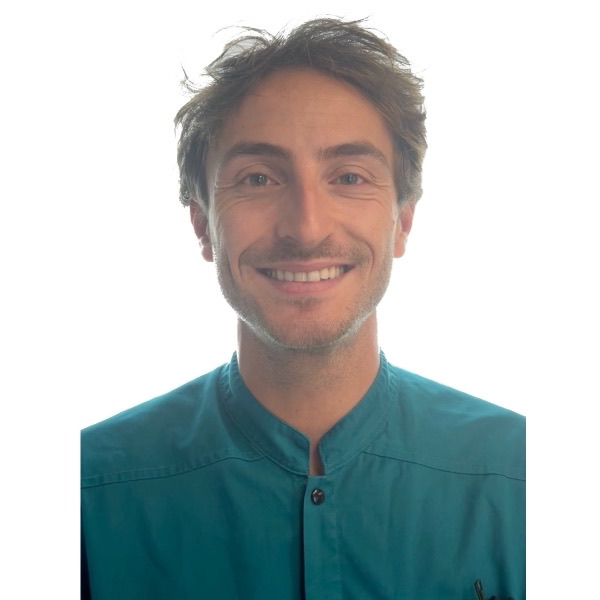
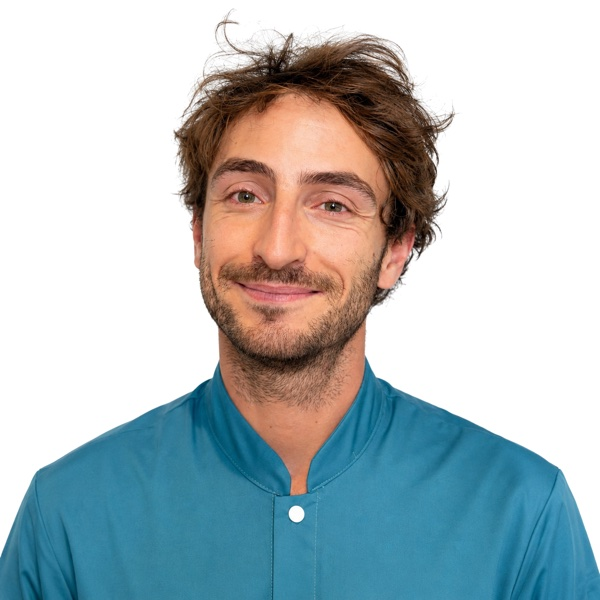
Mise à jour du site

diff --git a/equipe.html b/equipe.html
@@ -46,6 +46,7 @@
                 document.getElementById("closureTitle").textContent = f.titre;
                 document.getElementById("closureText").innerHTML = f.message;
                 document.getElementById("closureOverlay").style.display = "flex";
+                sessionStorage.setItem("closureSeen", "1");
                 break;
             }
         }
@@ -114,7 +115,7 @@
                     </ul>
                 </div>
                 <div class="team-card">
-                    <div class="team-photo"><img src="img/dr-simon.jpg" alt="Dr Simon Prévé"></div>
+                    <div class="team-photo"><img src="img/dr-simon.jpg?v=2" alt="Dr Simon Prévé"></div>
                     <h3 class="team-name">Dr Simon Prévé</h3>
                     <div class="team-role">Spécialiste qualifié en orthodontie</div>
                     <p class="team-desc">Spécialiste qualifié avec formation européenne de haut niveau, actif dans la recherche scientifique et membre de sociétés d'orthodontie internationales.</p>

diff --git a/contact.html b/contact.html
@@ -288,6 +288,7 @@
                 document.getElementById("closureTitle").textContent = f.titre;
                 document.getElementById("closureText").innerHTML = f.message;
                 document.getElementById("closureOverlay").style.display = "flex";
+                sessionStorage.setItem("closureSeen", "1");
                 break;
             }
         }

diff --git a/ressources.html b/ressources.html
@@ -225,6 +225,7 @@
                 document.getElementById("closureTitle").textContent = f.titre;
                 document.getElementById("closureText").innerHTML = f.message;
                 document.getElementById("closureOverlay").style.display = "flex";
+                sessionStorage.setItem("closureSeen", "1");
                 break;
             }
         }

diff --git a/accessibilite.html b/accessibilite.html
@@ -73,6 +73,7 @@
                 document.getElementById("closureTitle").textContent = f.titre;
                 document.getElementById("closureText").innerHTML = f.message;
                 document.getElementById("closureOverlay").style.display = "flex";
+                sessionStorage.setItem("closureSeen", "1");
                 break;
             }
         }

diff --git a/cabinet.html b/cabinet.html
@@ -46,6 +46,7 @@
                 document.getElementById("closureTitle").textContent = f.titre;
                 document.getElementById("closureText").innerHTML = f.message;
                 document.getElementById("closureOverlay").style.display = "flex";
+                sessionStorage.setItem("closureSeen", "1");
                 break;
             }
         }

diff --git a/engagements.html b/engagements.html
@@ -46,6 +46,7 @@
                 document.getElementById("closureTitle").textContent = f.titre;
                 document.getElementById("closureText").innerHTML = f.message;
                 document.getElementById("closureOverlay").style.display = "flex";
+                sessionStorage.setItem("closureSeen", "1");
                 break;
             }
         }

diff --git a/index.html b/index.html
@@ -96,6 +96,7 @@
                 document.getElementById("closureTitle").textContent = f.titre;
                 document.getElementById("closureText").innerHTML = f.message;
                 document.getElementById("closureOverlay").style.display = "flex";
+                sessionStorage.setItem("closureSeen", "1");
                 break;
             }
         }

diff --git a/mentions-legales.html b/mentions-legales.html
@@ -49,6 +49,7 @@
                 document.getElementById("closureTitle").textContent = f.titre;
                 document.getElementById("closureText").innerHTML = f.message;
                 document.getElementById("closureOverlay").style.display = "flex";
+                sessionStorage.setItem("closureSeen", "1");
                 break;
             }
         }

diff --git a/traitements.html b/traitements.html
@@ -46,6 +46,7 @@
                 document.getElementById("closureTitle").textContent = f.titre;
                 document.getElementById("closureText").innerHTML = f.message;
                 document.getElementById("closureOverlay").style.display = "flex";
+                sessionStorage.setItem("closureSeen", "1");
                 break;
             }
         }

diff --git a/style.css b/style.css
@@ -490,6 +490,7 @@ body {
     margin-bottom: 0.8rem;
     display: block;
 }
+.closure-popup .closure-icon:empty { display: none; }
 .closure-popup h3 {
     font-family: 'Playfair Display', serif;
     color: var(--dark-green);
